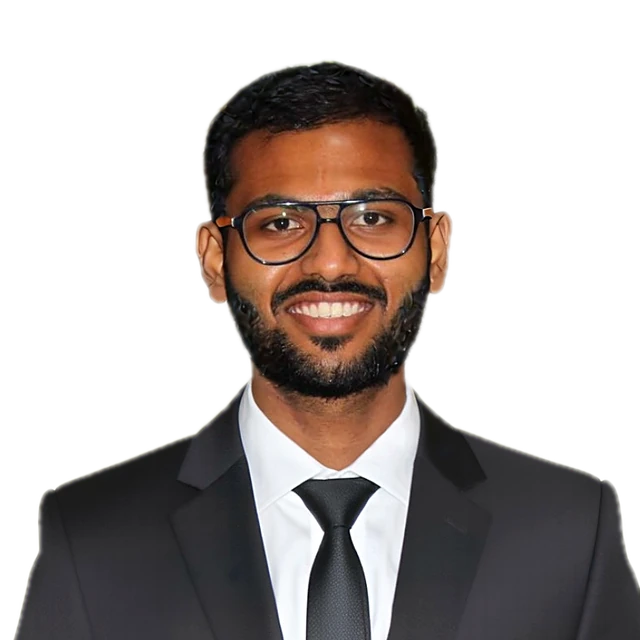
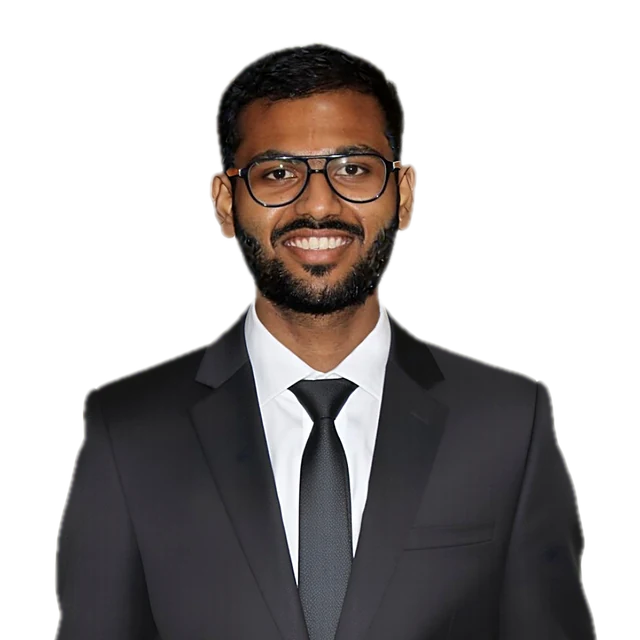
Fix hero photo crop and badge placement on mobile

diff --git a/src/App.jsx b/src/App.jsx
@@ -255,7 +255,7 @@ const Hero = () => (
               className="h-full w-full object-cover object-top transition duration-500 group-hover:scale-105"
             />
           </div>
-          <div className="absolute -left-2 top-8 rounded-2xl border border-white/10 bg-slate-900/90 px-4 py-2 text-sm shadow-xl backdrop-blur min-[375px]:-left-4 sm:-left-10">
+          <div className="absolute -left-2 top-[58%] rounded-2xl sm:top-8 border border-white/10 bg-slate-900/90 px-4 py-2 text-sm shadow-xl backdrop-blur min-[375px]:-left-4 sm:-left-10">
             <p className="font-bold text-white">4+ years</p>
             <p className="text-xs text-slate-400">DevOps experience</p>
           </div>
